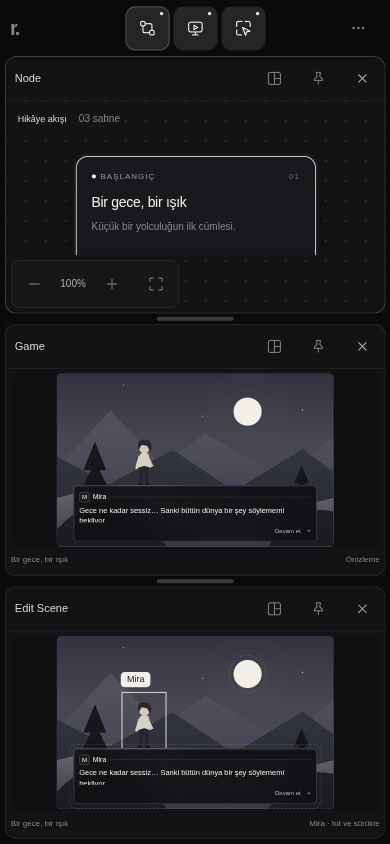
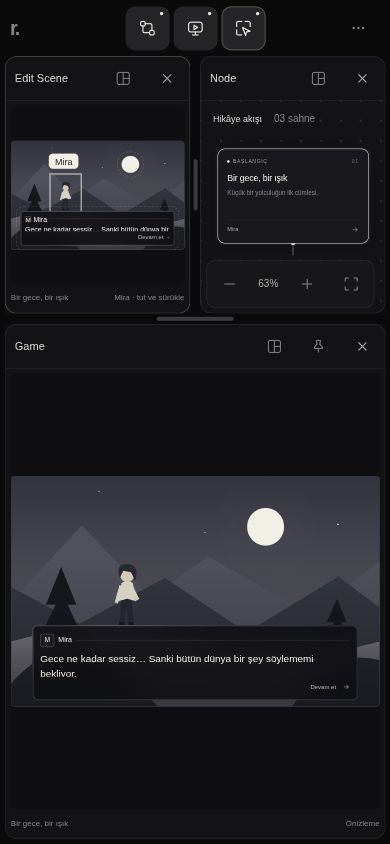
Keep workspace windows in non-overlapping split areas

diff --git a/prototypes/editor-workspace/app.js b/prototypes/editor-workspace/app.js
@@ -1,5 +1,5 @@
 import { initialState, focusView, openView, closeView, togglePin, setCapacity } from './workspace-state.mjs';
-import { initialLayout, syncLayout, dockView, dockToWorkspace, floatView, resizeSplit, clampRect } from './layout-state.mjs';
+import { initialLayout, syncLayout, dockView, resizeSplit } from './layout-state.mjs';
 
 const names = { node: 'Node', game: 'Game', edit: 'Edit Scene' };
 const defaults = [
@@ -12,13 +12,13 @@ const objectNames = { moon: 'Ay', character: 'Mira', dialogue: 'Diyalog' };
 const newScenes = () => defaults.map(scene => ({ ...scene, objects: structuredClone(baseObjects) }));
 let scenes = newScenes(), sceneIndex = 0, selectedObject = 'character';
 let state = initialState(), layout = initialLayout(), zoom = 1, toastTimer, gesture = null, placementView = null;
-const workspace = document.querySelector('#workspace'), dockRoot = document.querySelector('#dock-root'), floatLayer = document.querySelector('#float-layer');
+const workspace = document.querySelector('#workspace'), dockRoot = document.querySelector('#dock-root');
 const placement = document.querySelector('#placement-menu'), options = document.querySelector('#options-menu');
 const panels = new Map();
 for (const view of Object.keys(names)) {
   const panel = document.createElement('section');
   panel.className = 'panel'; panel.dataset.panel = view; panel.setAttribute('aria-label', `${names[view]} penceresi`);
-  panel.innerHTML = `<header class="panel-header" data-drag="${view}" title="Pencereyi taşımak için başlığı sürükle"><div class="panel-title"><svg aria-hidden="true"><use href="#i-${view}"/></svg><span>${names[view]}</span></div><div class="panel-actions"><button class="icon-button placement-button" data-placement="${view}" aria-label="${names[view]} pencere düzeni" title="Pencereyi yerleştir"><svg aria-hidden="true"><use href="#i-layout"/></svg></button><button class="icon-button pin-button" data-pin="${view}" aria-label="${names[view]} penceresini sabitle" title="Pencereyi sabitle"><svg aria-hidden="true"><use href="#i-pin"/></svg></button><button class="icon-button close-button" data-close="${view}" aria-label="${names[view]} penceresini kapat" title="Pencereyi kapat"><svg aria-hidden="true"><use href="#i-close"/></svg></button></div></header><div class="panel-content"></div><button class="resize-handle" data-resize="${view}" aria-label="${names[view]} pencere boyutunu değiştir"></button>`;
+  panel.innerHTML = `<header class="panel-header" data-drag="${view}" title="Pencereyi taşımak için başlığı sürükle"><div class="panel-title"><svg aria-hidden="true"><use href="#i-${view}"/></svg><span>${names[view]}</span></div><div class="panel-actions"><button class="icon-button placement-button" data-placement="${view}" aria-label="${names[view]} pencere düzeni" title="Pencereyi yerleştir"><svg aria-hidden="true"><use href="#i-layout"/></svg></button><button class="icon-button pin-button" data-pin="${view}" aria-label="${names[view]} penceresini sabitle" title="Pencereyi sabitle"><svg aria-hidden="true"><use href="#i-pin"/></svg></button><button class="icon-button close-button" data-close="${view}" aria-label="${names[view]} penceresini kapat" title="Pencereyi kapat"><svg aria-hidden="true"><use href="#i-close"/></svg></button></div></header><div class="panel-content"></div>`;
   const content = document.querySelector(view === 'node' ? '#node-template' : '#scene-template').content.cloneNode(true);
   if (view !== 'node') {
     // Each copy has its own SVG gradient identifiers.
@@ -62,7 +62,6 @@ function updateControls() {
     pin.setAttribute('aria-pressed', String(pinned));
     pin.setAttribute('aria-label', `${names[view]} penceresinin ${pinned ? 'sabitlemesini kaldır' : 'yerini sabitle'}`);
     pin.title = pinned ? 'Sabitlemeyi kaldır' : 'Pencereyi sabitle';
-    panel.style.zIndex = layout.floating[view] ? (state.focused === view ? 12 : 10) : '';
   }
 }
 function focus(view) { state = focusView(state, view); updateControls(); }
@@ -78,18 +77,11 @@ function treeElement(tree) {
   divider.setAttribute('aria-valuemin', '20'); divider.setAttribute('aria-valuemax', '80'); divider.setAttribute('aria-valuenow', String(Math.round(tree.ratio * 100)));
   element.append(a, divider, b); return element;
 }
-function positionFloat(view, rect) {
-  const panel = panels.get(view);
-  panel.style.left = `${rect.x}%`; panel.style.top = `${rect.y}%`; panel.style.width = `${rect.w}%`; panel.style.height = `${rect.h}%`;
-}
 function render() {
   const active = document.activeElement;
-  for (const panel of panels.values()) { panel.remove(); panel.classList.remove('is-floating'); panel.style.cssText = ''; }
-  dockRoot.replaceChildren(); floatLayer.replaceChildren();
+  for (const panel of panels.values()) panel.remove();
+  dockRoot.replaceChildren();
   const tree = treeElement(layout.tree); if (tree) dockRoot.append(tree);
-  for (const [view, rect] of Object.entries(layout.floating)) {
-    const panel = panels.get(view); panel.classList.add('is-floating'); positionFloat(view, rect); floatLayer.append(panel);
-  }
   updateControls(); updateScene(); fitViews();
   document.querySelector('#empty-state').hidden = state.visible.length > 0;
   if (active && active !== document.body && active.isConnected) active.focus({ preventScroll: true });
@@ -131,9 +123,8 @@ function showPlacement(view, button) {
   closeMenus(); placementView = view;
   document.querySelector('#placement-title').textContent = `${names[view]} · yerleştir`;
   const target = document.querySelector('#placement-target'); target.replaceChildren();
-  state.visible.filter(v => v !== view && !layout.floating[v]).forEach(v => { const option = document.createElement('option'); option.value = v; option.textContent = names[v]; target.append(option); });
+  state.visible.filter(v => v !== view).forEach(v => { const option = document.createElement('option'); option.value = v; option.textContent = names[v]; target.append(option); });
   placement.querySelectorAll('[data-edge]').forEach(el => { el.disabled = !target.options.length; });
-  placement.querySelector('[data-dock-root]').hidden = !layout.floating[view];
   document.querySelector('#menu-pin span').textContent = state.pinned.includes(view) ? 'Sabitlemeyi kaldır' : 'Pencereyi sabitle';
   document.querySelector('#menu-pin').title = 'Diğer ekran açıldığında bu pencere açık kalır.';
   placement.hidden = false;
@@ -141,35 +132,24 @@ function showPlacement(view, button) {
   placement.style.left = `${Math.max(8, Math.min(innerWidth - 250, rect.right - 242))}px`;
   placement.style.top = `${Math.max(60, Math.min(innerHeight - placement.offsetHeight - 8, rect.bottom + 5))}px`;
 }
-function floatRectAt(x, y, original) {
-  const bounds = workspace.getBoundingClientRect();
-  const w = Math.min(100, original.width / bounds.width * 100), h = Math.min(100, original.height / bounds.height * 100);
-  return clampRect({ x: (x - bounds.left - original.offsetX) / bounds.width * 100, y: (y - bounds.top - original.offsetY) / bounds.height * 100, w, h });
-}
 function dropTarget(x, y, source) {
-  const target = document.elementsFromPoint(x, y).map(el => el.closest?.('[data-panel]')).find(el => el && el.dataset.panel !== source && !layout.floating[el.dataset.panel]);
-  if (!target) {
-    const rect = workspace.getBoundingClientRect(), px=(x-rect.left)/rect.width, py=(y-rect.top)/rect.height;
-    if (!layout.tree && Math.min(px,1-px,py,1-py)<.18) return {target:'workspace',edge:'fill',rect};
-    return null;
-  }
+  const target = document.elementsFromPoint(x, y).map(el => el.closest?.('[data-panel]')).find(el => el && el.dataset.panel !== source);
+  if (!target) return null;
   const rect = target.getBoundingClientRect(), px = (x - rect.left) / rect.width, py = (y - rect.top) / rect.height;
   const distances = { left: px, right: 1 - px, top: py, bottom: 1 - py };
   const edge = Object.keys(distances).sort((a, b) => distances[a] - distances[b])[0];
-  if (distances[edge] > .28) return null;
   return { target: target.dataset.panel, edge, rect };
 }
-function showDrop(drop, rect) {
-  const preview = document.querySelector('#drop-preview'), bounds = workspace.getBoundingClientRect();
-  let x, y, w, h, label;
-  if (drop) {
-    ({ left:x, top:y, width:w, height:h } = drop.rect); x -= bounds.left; y -= bounds.top;
-    if (['left', 'right'].includes(drop.edge)) { w /= 2; if (drop.edge === 'right') x += w; }
-    else if (drop.edge !== 'fill') { h /= 2; if (drop.edge === 'bottom') y += h; }
-    label = { left:'Sola yerleştir', right:'Sağa yerleştir', top:'Üste yerleştir', bottom:'Alta yerleştir', fill:'Çalışma alanına yerleştir' }[drop.edge];
-  } else { x = rect.x / 100 * bounds.width; y = rect.y / 100 * bounds.height; w = rect.w / 100 * bounds.width; h = rect.h / 100 * bounds.height; label = 'Serbest pencere'; }
+function showDrop(drop) {
+  const preview = document.querySelector('#drop-preview');
+  if (!drop) { preview.hidden = true; return; }
+  const bounds = workspace.getBoundingClientRect();
+  let { left:x, top:y, width:w, height:h } = drop.rect;
+  x -= bounds.left; y -= bounds.top;
+  if (['left', 'right'].includes(drop.edge)) { w /= 2; if (drop.edge === 'right') x += w; }
+  else { h /= 2; if (drop.edge === 'bottom') y += h; }
   preview.hidden = false; preview.style.cssText = `left:${x}px;top:${y}px;width:${w}px;height:${h}px;`;
-  preview.querySelector('span').textContent = label;
+  preview.querySelector('span').textContent = { left:'Sola yerleştir', right:'Sağa yerleştir', top:'Üste yerleştir', bottom:'Alta yerleştir' }[drop.edge];
 }
 function startGesture(event, data) {
   gesture = { ...data, pointerId:event.pointerId, startX:event.clientX, startY:event.clientY };
@@ -179,15 +159,14 @@ workspace.addEventListener('pointerdown', event => {
   if (event.button !== 0 || gesture) return;
   const panel = event.target.closest('[data-panel]'); if (panel) focus(panel.dataset.panel);
   const object = event.target.closest('.editable [data-object]');
-  const divider = event.target.closest('[data-divider]'), resize = event.target.closest('[data-resize]'), header = event.target.closest('[data-drag]');
+  const divider = event.target.closest('[data-divider]'), header = event.target.closest('[data-drag]');
   if (object) {
     selectedObject = object.dataset.object; object.focus({preventScroll:true}); updateScene();
     startGesture(event, {type:'object', object:selectedObject, scene:sceneIndex, original:{...scenes[sceneIndex].objects[selectedObject]}, bounds:object.closest('.game-frame').getBoundingClientRect()});
   } else if (divider) startGesture(event, {type:'divider', id:divider.dataset.divider, element:divider, axis:divider.parentElement.dataset.axis, bounds:divider.parentElement.getBoundingClientRect(), originalLayout:layout});
-  else if (resize) startGesture(event, {type:'resize', view:resize.dataset.resize, original:{...layout.floating[resize.dataset.resize]}, bounds:workspace.getBoundingClientRect()});
   else if (header && !event.target.closest('button')) {
-    closeMenus(); const rect = panel.getBoundingClientRect();
-    startGesture(event, {type:'panel', view:panel.dataset.panel, original:{width:rect.width,height:rect.height,offsetX:event.clientX-rect.left,offsetY:event.clientY-rect.top}, moved:false});
+    closeMenus();
+    startGesture(event, {type:'panel', view:panel.dataset.panel, moved:false});
   }
 });
 workspace.addEventListener('pointermove', event => {
@@ -203,27 +182,20 @@ workspace.addEventListener('pointermove', event => {
     const value = Math.max(.2, Math.min(.8, ratio));
     gesture.element.previousElementSibling.style.flex = `${value} 1 0`; gesture.element.nextElementSibling.style.flex = `${1-value} 1 0`;
     gesture.element.setAttribute('aria-valuenow', String(Math.round(value*100))); fitViews();
-  } else if (gesture.type === 'resize') {
-    const rect = clampRect({...gesture.original,w:gesture.original.w+dx/gesture.bounds.width*100,h:gesture.original.h+dy/gesture.bounds.height*100});
-    // Keep the top-left fixed while limiting the resize to the workspace.
-    rect.x = gesture.original.x; rect.y = gesture.original.y; rect.w = Math.min(rect.w,100-rect.x); rect.h = Math.min(rect.h,100-rect.y);
-    layout = {...layout,floating:{...layout.floating,[gesture.view]:rect}}; positionFloat(gesture.view,rect); fitViews();
   } else if (Math.abs(dx)+Math.abs(dy)>7 || gesture.moved) {
     gesture.moved = true; document.body.classList.add('dragging');
     const label = document.querySelector('#drag-label'); label.hidden=false; label.textContent=names[gesture.view]; label.style.left=`${event.clientX+14}px`; label.style.top=`${event.clientY+14}px`;
-    gesture.rect = floatRectAt(event.clientX,event.clientY,gesture.original); gesture.drop = dropTarget(event.clientX,event.clientY,gesture.view);
+    gesture.drop = dropTarget(event.clientX,event.clientY,gesture.view);
     const bounds=workspace.getBoundingClientRect(); gesture.outside=event.clientX<bounds.left||event.clientX>bounds.right||event.clientY<bounds.top||event.clientY>bounds.bottom;
-    showDrop(gesture.drop,gesture.rect);
-    if (layout.floating[gesture.view]) positionFloat(gesture.view,gesture.rect);
+    showDrop(gesture.outside ? null : gesture.drop);
   }
 });
 function endGesture(cancel = false) {
   if (!gesture) return;
   const current = gesture; gesture = null;
   if (workspace.hasPointerCapture(current.pointerId)) workspace.releasePointerCapture(current.pointerId);
-  if (current.type === 'panel' && current.moved && !cancel && !current.outside) layout = current.drop ? current.drop.target==='workspace' ? dockToWorkspace(layout,current.view) : dockView(layout,current.view,current.drop.target,current.drop.edge) : floatView(layout,current.view,current.rect);
+  if (current.type === 'panel' && current.moved && !cancel && !current.outside && current.drop) layout = dockView(layout,current.view,current.drop.target,current.drop.edge);
   if (cancel && current.type === 'object') { scenes[current.scene].objects[current.object] = current.original; updateScene(); }
-  if (cancel && current.type === 'resize') layout = {...layout,floating:{...layout.floating,[current.view]:current.original}};
   if (cancel && current.type === 'divider') layout = current.originalLayout;
   document.body.classList.remove('dragging'); document.querySelector('#drop-preview').hidden=true; document.querySelector('#drag-label').hidden=true;
   if (current.type !== 'object') render();
@@ -261,8 +233,6 @@ document.querySelector('#options').addEventListener('click',()=>{ const open=opt
 placement.addEventListener('click',event=>{
   const edge=event.target.closest('[data-edge]');
   if (edge) { layout=dockView(layout,placementView,document.querySelector('#placement-target').value,edge.dataset.edge); closeMenus(); render(); }
-  else if (event.target.closest('[data-floating]')) { layout=floatView(layout,placementView,layout.floating[placementView]||{x:workspace.clientWidth<650?4:20,y:10,w:workspace.clientWidth<650?92:60,h:65}); closeMenus(); render(); }
-  else if (event.target.closest('[data-dock-root]')) { layout=dockToWorkspace(layout,placementView,workspace.clientWidth<650?'y':'x'); closeMenus(); render(); }
   else if (event.target.closest('#menu-pin')) apply(togglePin(state,placementView));
   else if (event.target.closest('#menu-close')) apply(closeView(state,placementView));
 });

diff --git a/prototypes/editor-workspace/style.css b/prototypes/editor-workspace/style.css
@@ -2,10 +2,10 @@
 :root{color-scheme:dark;--bg:#0a0a0b;--surface:#131315;--bone:#f2efe6;--text:#dad7cf;--muted:#85858b;--line:#29292d;font-family:Inter,ui-sans-serif,-apple-system,BlinkMacSystemFont,"Segoe UI",sans-serif;font-synthesis:none}
 *{box-sizing:border-box}body{margin:0;background:var(--bg);color:var(--text);font-size:13px;height:100dvh;overflow:hidden}button,select{font:inherit}button{cursor:pointer;color:inherit;touch-action:manipulation}button:focus-visible,select:focus-visible,[tabindex]:focus-visible{outline:2px solid var(--bone);outline-offset:-3px}button,select{-webkit-tap-highlight-color:transparent}svg{width:20px;height:20px;fill:none;stroke:currentColor;stroke-width:1.5;stroke-linecap:round;stroke-linejoin:round;flex-shrink:0}[hidden]{display:none!important}.icon-library{position:absolute;width:0;height:0;overflow:hidden}.muted{color:var(--muted)}
 .app-header{height:56px;padding:0 14px;display:grid;grid-template-columns:1fr auto 1fr;align-items:center;position:relative;z-index:40;background:var(--bg)}.brand-mark{color:#85847e;font-size:20px;font-weight:650;justify-self:start;letter-spacing:-2px}.view-switcher{display:flex;gap:4px;padding:3px;border:1px solid #252527;border-radius:14px;background:#111113}.view-button{border:0;background:transparent;width:44px;height:40px;border-radius:10px;display:grid;place-items:center;position:relative;color:var(--muted)}.view-button:hover{background:#202023;color:var(--bone)}.view-button[aria-pressed="true"]{background:#252527;color:var(--bone)}.view-button.focused{box-shadow:inset 0 0 0 1px #54534d}.view-button svg{width:18px;height:18px}.view-button i{width:3px;height:3px;border-radius:50%;position:absolute;top:6px;right:6px}.view-button[aria-pressed="true"] i{background:var(--bone)}.icon-button{border:0;background:transparent;display:grid;place-items:center;width:44px;height:44px;border-radius:9px;color:var(--muted);flex-shrink:0}.icon-button:hover{background:#252527;color:var(--bone)}.icon-button svg{width:16px;height:16px}#options{justify-self:end}.popover{background:#1a1a1d;border:1px solid #3d3d40;border-radius:13px;padding:13px;box-shadow:0 18px 60px #0009;width:242px;z-index:60}.options-menu{position:absolute;right:12px;top:53px}.menu-label{display:block;color:#aaa89f;font-size:11px;margin:1px 0 12px}.segmented{display:flex;gap:4px;background:#101012;padding:4px;border-radius:9px;margin-bottom:10px}.segmented button{flex:1;background:transparent;border:0;border-radius:6px;min-height:40px;font-size:11px;color:var(--muted)}.segmented button[aria-pressed="true"]{background:var(--bone);color:#242424}.menu-row{border:0;background:transparent;display:flex;align-items:center;gap:10px;width:100%;min-height:44px;border-radius:8px;padding:9px;font-size:11px;text-align:left}.menu-row svg{width:16px;height:16px;color:var(--muted)}.menu-row:hover{background:#2a2a2d}.options-menu p{font-size:10px;color:var(--muted);line-height:1.8;margin:10px 8px 2px}.placement-menu{position:fixed}.placement-menu label{font-size:10px;color:var(--muted);display:block;margin-bottom:7px}.placement-menu select{width:100%;border:1px solid #3c3c40;background:#141416;color:var(--bone);border-radius:8px;padding:10px;min-height:44px;font-size:11px}.placement-directions{display:grid;grid-template-columns:1fr 1fr;gap:5px;margin:10px 0}.placement-directions button{min-height:44px;background:#242427;border:1px solid #36363a;border-radius:8px;font-size:11px}.placement-directions button:hover{border-color:#aaa89f}.placement-directions button:disabled{opacity:.3;cursor:default}
-.workspace{height:calc(100dvh - 56px);position:relative;margin:0 8px 8px;height:calc(100dvh - 64px);min-height:180px;background:#0e0e10;border-radius:12px;overflow:hidden}.dock-root,.float-layer{position:absolute;inset:0}.dock-root:empty::after{content:'Pencereyi buraya yerleştir';color:#535357;font-size:11px;position:absolute;top:50%;left:50%;transform:translate(-50%,-50%)}.float-layer{pointer-events:none}.split{display:flex;min-width:0;min-height:0;width:100%;height:100%}.split[data-axis="y"]{flex-direction:column}.split-child{min-width:0;min-height:0;position:relative;overflow:hidden;display:flex}.split-child>.panel{flex:1}.split-child>.split{flex:1}.splitter{flex:0 0 8px;position:relative;touch-action:none;cursor:col-resize;background:var(--bg);border:0;padding:0}.splitter::after{content:'';position:absolute;left:3px;right:3px;top:40%;bottom:40%;border-radius:3px;background:#3b3b3e}.split[data-axis="y"]>.splitter{cursor:row-resize}.split[data-axis="y"]>.splitter::after{top:3px;bottom:3px;left:40%;right:40%}.splitter:hover::after,.splitter:focus-visible::after{background:var(--bone)}.panel{min-width:0;min-height:0;width:100%;height:100%;display:flex;flex-direction:column;background:var(--surface);border:1px solid var(--line);border-radius:12px;overflow:hidden;position:relative}.panel.is-focused{border-color:#4c4b45}.panel.is-pinned{border-color:#666359}.panel-header{height:44px;min-height:44px;display:flex;align-items:center;justify-content:space-between;padding-left:13px;border-bottom:1px solid #252528;cursor:grab;touch-action:none;user-select:none;gap:6px}.panel-header:active{cursor:grabbing}.panel-title{min-width:0;display:flex;gap:8px;align-items:center;font-size:11px;color:var(--text)}.panel-title>span:first-of-type{white-space:nowrap;overflow:hidden;text-overflow:ellipsis}.panel-title>svg{width:14px;height:14px;color:var(--muted)}.pin-indicator svg{width:11px;height:11px;color:var(--bone)}.panel-header .icon-button{width:36px}.panel-content{min-height:0;flex:1;display:flex;flex-direction:column;overflow:hidden}.panel.is-floating{position:absolute;pointer-events:auto;box-shadow:0 22px 70px #000a;border-color:#555249}.resize-handle{position:absolute;right:0;bottom:0;width:30px;height:30px;cursor:nwse-resize;touch-action:none;background:transparent;border:0;z-index:4;color:#99978e}.resize-handle::before{content:'';position:absolute;right:8px;bottom:8px;width:8px;height:8px;border-right:1px solid currentColor;border-bottom:1px solid currentColor}.panel:not(.is-floating) .resize-handle{display:none}.drop-preview{position:absolute;border:1px solid var(--bone);background:#f2efe61a;border-radius:10px;pointer-events:none;z-index:30;display:grid;place-items:center}.drop-preview span{background:var(--bone);color:#222;padding:8px 11px;font-size:11px;border-radius:8px}.drag-label{position:fixed;background:var(--bone);color:#222;border-radius:9px;padding:9px 12px;box-shadow:0 10px 25px #0005;pointer-events:none;z-index:100;font-size:11px}.dragging{user-select:none}.dragging .panel-header{cursor:grabbing}
+.workspace{height:calc(100dvh - 56px);position:relative;margin:0 8px 8px;height:calc(100dvh - 64px);min-height:180px;background:#0e0e10;border-radius:12px;overflow:hidden}.dock-root{position:absolute;inset:0}.dock-root:empty::after{content:'Pencereyi buraya yerleştir';color:#535357;font-size:11px;position:absolute;top:50%;left:50%;transform:translate(-50%,-50%)}.split{display:flex;min-width:0;min-height:0;width:100%;height:100%}.split[data-axis="y"]{flex-direction:column}.split-child{min-width:0;min-height:0;position:relative;overflow:hidden;display:flex}.split-child>.panel{flex:1}.split-child>.split{flex:1}.splitter{flex:0 0 8px;position:relative;touch-action:none;cursor:col-resize;background:var(--bg);border:0;padding:0}.splitter::after{content:'';position:absolute;left:3px;right:3px;top:40%;bottom:40%;border-radius:3px;background:#3b3b3e}.split[data-axis="y"]>.splitter{cursor:row-resize}.split[data-axis="y"]>.splitter::after{top:3px;bottom:3px;left:40%;right:40%}.splitter:hover::after,.splitter:focus-visible::after{background:var(--bone)}.panel{min-width:0;min-height:0;width:100%;height:100%;display:flex;flex-direction:column;background:var(--surface);border:1px solid var(--line);border-radius:12px;overflow:hidden;position:relative}.panel.is-focused{border-color:#4c4b45}.panel.is-pinned{border-color:#666359}.panel-header{height:44px;min-height:44px;display:flex;align-items:center;justify-content:space-between;padding-left:13px;border-bottom:1px solid #252528;cursor:grab;touch-action:none;user-select:none;gap:6px}.panel-header:active{cursor:grabbing}.panel-title{min-width:0;display:flex;gap:8px;align-items:center;font-size:11px;color:var(--text)}.panel-title>span:first-of-type{white-space:nowrap;overflow:hidden;text-overflow:ellipsis}.panel-title>svg{width:14px;height:14px;color:var(--muted)}.panel-header .icon-button{width:36px}.panel-content{min-height:0;flex:1;display:flex;flex-direction:column;overflow:hidden}.drop-preview{position:absolute;border:1px solid var(--bone);background:#f2efe61a;border-radius:10px;pointer-events:none;z-index:30;display:grid;place-items:center}.drop-preview span{background:var(--bone);color:#222;padding:8px 11px;font-size:11px;border-radius:8px}.drag-label{position:fixed;background:var(--bone);color:#222;border-radius:9px;padding:9px 12px;box-shadow:0 10px 25px #0005;pointer-events:none;z-index:100;font-size:11px}.dragging{user-select:none}.dragging .panel-header{cursor:grabbing}
 .canvas-caption{padding:17px 20px;font-size:10px}.canvas-bottom{padding:8px 12px}.canvas-note{display:none}.zoom-controls{border-radius:9px}.graph-viewport.is-compact{overflow:auto;scrollbar-width:thin;scrollbar-color:#3e3e41 transparent}.compact-connections{display:none}.is-compact .graph-world{width:260px;height:560px}.is-compact .connections{display:none}.is-compact .compact-connections{display:block;position:absolute;width:260px;height:560px;stroke:#74736c;stroke-width:1.5}.compact-connections circle{fill:var(--bone);stroke:var(--surface)}.is-compact .story-node{width:240px;left:10px}.is-compact .node-0{top:20px}.is-compact .node-1{top:205px}.is-compact .node-2{top:390px}.story-node strong{overflow-wrap:anywhere;max-height:36px;overflow:hidden}
 .scene-area{display:flex;flex-direction:column;flex:1;min-height:0;padding:10px}.scene-stage-wrap{flex:1;min-height:0;min-width:0;display:flex;align-items:center;justify-content:center;background:#0f0f12;border-radius:6px;overflow:hidden}.game-frame{position:relative;flex:none;aspect-ratio:1.6;overflow:hidden;border-radius:4px;background:#30323b;container-type:inline-size}.landscape{position:absolute;inset:0;width:100%;height:100%;stroke:none}.scene-vignette{position:absolute;inset:0;background:linear-gradient(0deg,#0004,transparent 65%);pointer-events:none}.scene-object{position:absolute}.moon-object{background:var(--bone);border-radius:50%;box-shadow:0 0 45px #f2efe610}.character-object>svg{width:100%;height:100%;stroke:none;display:block}.dialogue-box{border:1px solid #f2efe62b;border-radius:1.3cqw;padding:1.8cqw;background:rgb(15 15 18 / .88);backdrop-filter:blur(12px);display:flex;flex-direction:column;overflow:visible}.speaker-row{display:flex;align-items:center;gap:1.1cqw;font-size:clamp(7px,1.9cqw,11px);color:var(--bone)}.speaker-avatar{width:3.8cqw;height:3.8cqw;max-width:24px;max-height:24px;display:grid;place-items:center;border:1px solid #f2efe62d;border-radius:.8cqw;font-size:clamp(6px,1.7cqw,10px);background:#f2efe609}.dialogue-line{height:1px;flex:1;background:#f2efe61c}.dialogue-text{font-size:clamp(7px,2.7cqw,18px);line-height:1.45;color:#eeeae0;margin:1.2cqw 0;overflow:hidden;font-weight:350;flex:1}.continue-button{margin-left:auto;display:flex;gap:1.8cqw;align-items:center;border:0;background:transparent;padding:.5cqw 0;font-size:clamp(6px,1.6cqw,10px);color:#bdb9b0;flex-shrink:0}.continue-button svg{width:2cqw;height:2cqw;max-width:14px;max-height:14px}.scene-bottom{padding-top:9px;min-height:24px;font-size:9px;color:var(--muted);display:flex;justify-content:space-between;gap:10px}.scene-title{overflow:hidden;white-space:nowrap;text-overflow:ellipsis}.scene-help{white-space:nowrap}.editable .scene-object{cursor:move;touch-action:none;outline:1px dashed #f2efe62b;outline-offset:4px}.editable .scene-object:hover,.editable .scene-object.selected{outline:1px solid var(--bone)}.editable .scene-object.selected:after{content:'';position:absolute;right:-7px;bottom:-7px;width:6px;height:6px;background:var(--bone);border:1px solid #343434;pointer-events:none}.editable .continue-button{pointer-events:none}.object-label{display:none}.editable .selected .object-label{display:block;position:absolute;top:-25px;left:-5px;white-space:nowrap;font-size:9px;background:var(--bone);color:#222;padding:3px 6px;border-radius:4px;pointer-events:none}.editable .moon-object .object-label{left:0}.toast{position:fixed;bottom:20px;left:50%;transform:translate(-50%,8px);background:var(--bone);color:#222;border-radius:10px;padding:12px 16px;box-shadow:0 10px 30px #0008;font-size:11px;opacity:0;transition:opacity .2s,transform .2s;z-index:80;pointer-events:none;max-width:calc(100vw - 30px);text-align:center}.toast.visible{opacity:1;transform:translate(-50%,0)}
-@media(max-width:650px){.app-header{padding:0 10px;height:56px}.view-button{height:44px}.view-switcher{padding:0;border:0;background:transparent}.workspace{margin:0 5px 5px;height:calc(100dvh - 61px)}.panel-header{padding-left:9px}.panel-header .icon-button{width:44px}.panel-title{gap:5px}.panel-title>svg{display:none}.scene-area{padding:5px}.scene-help{max-width:44%;overflow:hidden;text-overflow:ellipsis}.splitter{flex-basis:10px}.resize-handle{width:44px;height:44px}.zoom-controls .icon-button{width:44px;height:44px}.canvas-caption{padding:12px;font-size:9px}.canvas-bottom{padding:5px}.scene-bottom{font-size:8px}.options-menu{right:7px}}
+@media(max-width:650px){.app-header{padding:0 10px;height:56px}.view-button{height:44px}.view-switcher{padding:0;border:0;background:transparent}.workspace{margin:0 5px 5px;height:calc(100dvh - 61px)}.panel-header{padding-left:9px}.panel-header .icon-button{width:44px}.panel-title{gap:5px}.panel-title>svg{display:none}.scene-area{padding:5px}.scene-help{max-width:44%;overflow:hidden;text-overflow:ellipsis}.splitter{flex-basis:10px}.zoom-controls .icon-button{width:44px;height:44px}.canvas-caption{padding:12px;font-size:9px}.canvas-bottom{padding:5px}.scene-bottom{font-size:8px}.options-menu{right:7px}}
 @media(prefers-reduced-motion:reduce){*{transition:none!important}}
 .panel{container-type:inline-size}.panel-title{flex:1}.panel-actions{display:flex;flex-shrink:0;align-items:center}.panel-actions .icon-button{cursor:pointer}.close-button{color:#b1afa7}.close-button:hover{background:#3a2929;color:#fff}.pin-button[aria-pressed="true"]{color:var(--bone);background:#f2efe60b}.pin-button[aria-pressed="true"] svg{fill:#f2efe625}.empty-state{position:absolute;inset:0;display:flex;flex-direction:column;align-items:center;justify-content:center;gap:14px;color:var(--muted);background:#0e0e10;font-size:12px;pointer-events:none}.empty-state svg{width:26px;height:26px;color:#5c5b57}
 @container(max-width:220px){.panel-actions .pin-button{display:none}}

diff --git a/prototypes/editor-workspace/index.html b/prototypes/editor-workspace/index.html
@@ -23,7 +23,6 @@
     <symbol id="i-reset" viewBox="0 0 24 24"><path d="M3 9a9 9 0 1 1 0 6M3 3v6h6"/></symbol>
     <symbol id="i-more" viewBox="0 0 24 24"><circle cx="5" cy="12" r="1"/><circle cx="12" cy="12" r="1"/><circle cx="19" cy="12" r="1"/></symbol>
     <symbol id="i-layout" viewBox="0 0 24 24"><rect x="3" y="3" width="18" height="18" rx="3"/><path d="M12 3v18m0-9h9"/></symbol>
-    <symbol id="i-float" viewBox="0 0 24 24"><rect x="3" y="7" width="14" height="14" rx="2"/><rect x="8" y="3" width="13" height="13" rx="2"/></symbol>
     <symbol id="i-move" viewBox="0 0 24 24"><path d="M12 3v18M3 12h18m-12-6 3-3 3 3m-6 12 3 3 3-3m-9-9-3 3 3 3m12-6 3 3-3 3"/></symbol>
   </svg>
 
@@ -40,17 +39,15 @@
       <span class="menu-label">Açık pencere sınırı</span>
       <div class="segmented" role="group" aria-label="Açık pencere sınırı"><button data-capacity="2">2 pencere</button><button data-capacity="3">3 pencere</button></div>
       <button class="menu-row" id="reset"><svg><use href="#i-reset"/></svg>Başlangıca dön</button>
-      <p>Pencere başlığını sürükle.<br>Kenarına bırak: yerleştir.<br>Ortasına bırak: serbest pencere.</p>
+      <p>Pencere başlığını sürükle.<br>Başka alana bırak: böl ve yerleştir.<br>Aradaki çizgiden boyutlandır.</p>
     </div>
   </header>
-  <main class="workspace" id="workspace" aria-label="Editör çalışma alanı"><div class="dock-root" id="dock-root"></div><div class="float-layer" id="float-layer"></div><div class="empty-state" id="empty-state" hidden><svg aria-hidden="true"><use href="#i-layout"/></svg><span>Üstteki simgelerden bir ekran aç.</span></div><div class="drop-preview" id="drop-preview" hidden><span></span></div><div class="drag-label" id="drag-label" hidden></div></main>
+  <main class="workspace" id="workspace" aria-label="Editör çalışma alanı"><div class="dock-root" id="dock-root"></div><div class="empty-state" id="empty-state" hidden><svg aria-hidden="true"><use href="#i-layout"/></svg><span>Üstteki simgelerden bir ekran aç.</span></div><div class="drop-preview" id="drop-preview" hidden><span></span></div><div class="drag-label" id="drag-label" hidden></div></main>
   <div class="placement-menu popover" id="placement-menu" hidden>
     <span class="menu-label" id="placement-title">Pencereyi yerleştir</span>
     <label for="placement-target">Hedef pencere</label>
     <select id="placement-target"></select>
     <div class="placement-directions" role="group" aria-label="Hedefe göre konum"><button data-edge="left">← Sol</button><button data-edge="right">Sağ →</button><button data-edge="top">↑ Üst</button><button data-edge="bottom">Alt ↓</button></div>
-    <button class="menu-row" data-floating><svg><use href="#i-float"/></svg>Serbest pencere</button>
-    <button class="menu-row" data-dock-root><svg><use href="#i-layout"/></svg>Çalışma alanına yerleştir</button>
     <button class="menu-row" id="menu-pin"><svg><use href="#i-pin"/></svg><span>Paneli sabitle</span></button>
     <button class="menu-row" id="menu-close"><svg><use href="#i-close"/></svg>Pencereyi kapat</button>
   </div>

diff --git a/prototypes/editor-workspace/README.md b/prototypes/editor-workspace/README.md
@@ -20,13 +20,12 @@ Edit Scene, inspector formu değildir. Inspector için ayrı bir kullanıcı tas
 
 ## Pencere yerleşimi
 
-- Başlığı sürükle: başka pencerenin sol/sağ/üst/alt kenarına bırakınca o alan bölünür. Bölmeler iç içe kurulabilir; örneğin Node solda, Game ve Edit Scene sağda üst üste.
-- Ortasına veya boş alana bırakınca serbest pencere olur. Serbest pencere başlıktan taşınır, sağ alt köşeden boyutlandırılır.
+- Başlığı sürükle: başka pencerenin sol/sağ/üst/alt tarafına bırakınca o alan bölünür. Ortasına bırakıldığında da en yakın tarafa göre bölünür. Bölmeler iç içe kurulabilir; örneğin Node solda, Game ve Edit Scene sağda alt alta.
+- Bütün pencereler kendi bölmesinde kalır; birbirinin üstüne binmez. Serbest pencere modu kaldırıldı. Sürüklerken pencere yerinde kalır, yalnız hedef bölmenin önizlemesi gösterilir.
 - Bölmeler arasındaki çizgiler sürüklenerek boyutlandırılır. Klavyede çizgiye odaklanıp ok tuşları kullanılabilir.
-- Pencere başlığındaki yerleşim düğmesi aynı işlemler için dokunmatik/klavye alternatifi sunar: hedef pencere, dört yön, serbest pencere ve çalışma alanına geri yerleştirme.
-- Bir serbest pencereyi diğerinin yanına dock etmek için önce hedefi çalışma alanına yerleştir.
+- Pencere başlığındaki yerleşim düğmesi aynı işlemler için dokunmatik/klavye alternatifi sunar: hedef pencere ve dört yön.
 - Escape veya pointer iptali sürüklemeyi geri alır. Alan dışına bırakılan pencere önceki konumunda kalır.
-- Mobilde yeni açılan pencereler varsayılan olarak alt alta yerleşir; kullanıcı yönlerini ve boyutlarını değiştirebilir. Üçlü başlangıçta alan dengeli paylaşılır. Serbest pencere konumları çalışma alanına göre oranla tutulur.
+- Mobilde yeni açılan pencereler varsayılan olarak alt alta yerleşir; kullanıcı yönlerini ve boyutlarını değiştirebilir. Üçlü başlangıçta alan dengeli paylaşılır.
 
 ## Açık pencere sınırı ve sabitleme
 
@@ -34,23 +33,20 @@ Edit Scene, inspector formu değildir. Inspector için ayrı bir kullanıcı tas
 - Sağ üst seçenek menüsünde üç pencere seçimi tüm ekranları açar. İkiye dönüş sabit olmayan en eski pencereyi kapatır.
 - Her pencerenin başlığında yerleşim, sabitleme ve görünür **× kapatma** düğmeleri var. Çok dar pencerede sabitleme yerleşim menüsünden de kullanılabilir.
 - **Pencereyi sabitle**, otomatik ekran değiştirmede o pencerenin korunmasını sağlar. Kullanıcı sabit pencereyi bizzat taşıyabilir veya × ile kapatabilir.
-- İki pencere doluyken üçüncü simge, sabit olmayan en eski pencerenin aynı dock alanını veya serbest dikdörtgenini devralır.
+- İki pencere doluyken üçüncü simge, sabit olmayan en eski pencerenin aynı bölmesini devralır.
 - Bütün açık pencereler sabitse yeni ekran açılmaz; açıklama gösterilir. Üçü sabitse ikiye geçmeden sabitleme kaldırılmalıdır.
 - ×, son açık pencere dahil herhangi bir pencereyi kapatır. Boş çalışma alanında üst simgelerden yeniden ekran açılabilir. Kapatılan pencerenin sabitlemesi kaldırılır. Seçenek menüsündeki başlangıca dön eylemi örnek veriyi ve yerleşimi sıfırlar.
 
 ## Doğrulama — 2026-10-04
 
-15 durum testi: kapasite/sabitleme, sabit ve son pencereyi elle kapatma, boş alandan yeniden açma, dört yönde iç içe yerleştirme, serbest/dock dönüşü, aynı konumu devralma, oran sınırları, mobil başlangıç ve 1000 karma işlemde pencere tekilliği.
+15 durum testi: kapasite/sabitleme, sabit ve son pencereyi elle kapatma, boş alandan yeniden açma, dört yönde iç içe yerleştirme, aynı konumu devralma, oran sınırları, mobil başlangıç ve 1000 karma işlemde pencere tekilliği ile alanların çakışmaması.
 
 ```sh
 node --test prototypes/editor-workspace/*.test.mjs
 ```
 
-Tarayıcıda masaüstü başlık sürükleme, üst/alt yerleştirme, bölme ve serbest pencere boyutlandırma, tek serbest pencerenin dock'a dönüşü, klavyeyle obje taşıma ve Game/Edit Scene ortak obje konumları kontrol edildi.
-390×844 görünümde de obje sürükleme ve pencere yerleşimi kontrol edildi; yatay sayfa taşması gözlenmedi.
-Bu kontrol gerçek mobil cihaz kabulü değildir. Tarayıcı hata/uyarı kaydı boştu.
-
-Son düzeltmede başlıktaki × ile sabit pencere, son pencere ve serbest pencere kapatma; üst simgeden yeniden açma masaüstünde doğrulandı. 390×844 görünümde de son pencereyi kapatma ve başka ekranla yeniden açma kontrol edildi.
+Son düzeltmede masaüstü ve 390×844 görünümde başlığı başka pencerenin ortasına bırakma kontrol edildi; sonuçta pencerelerin gerçek DOM alanları çakışmadı. Bölme boyutlandırma ve dört yönlü yerleşim menüsü çalışıyor. Kapatma, sabitleme ve üst simgeden yeniden açma korunuyor.
+Bu kontrol gerçek mobil cihaz kabulü değildir. Game/Edit Scene ortak obje konumları ve klavyeyle obje taşıma önceki sürümde doğrulandı; bu değişiklik sahne düzenleme davranışını değiştirmez.
 
 Siyah/kemik beyazı paleti mevcut KARAR-0 kararından gelir. SVG sahne yereldir; harici font, resim, API veya motor bağlantısı yoktur. Örnek veri sayfa yenilenince sıfırlanır.
 
